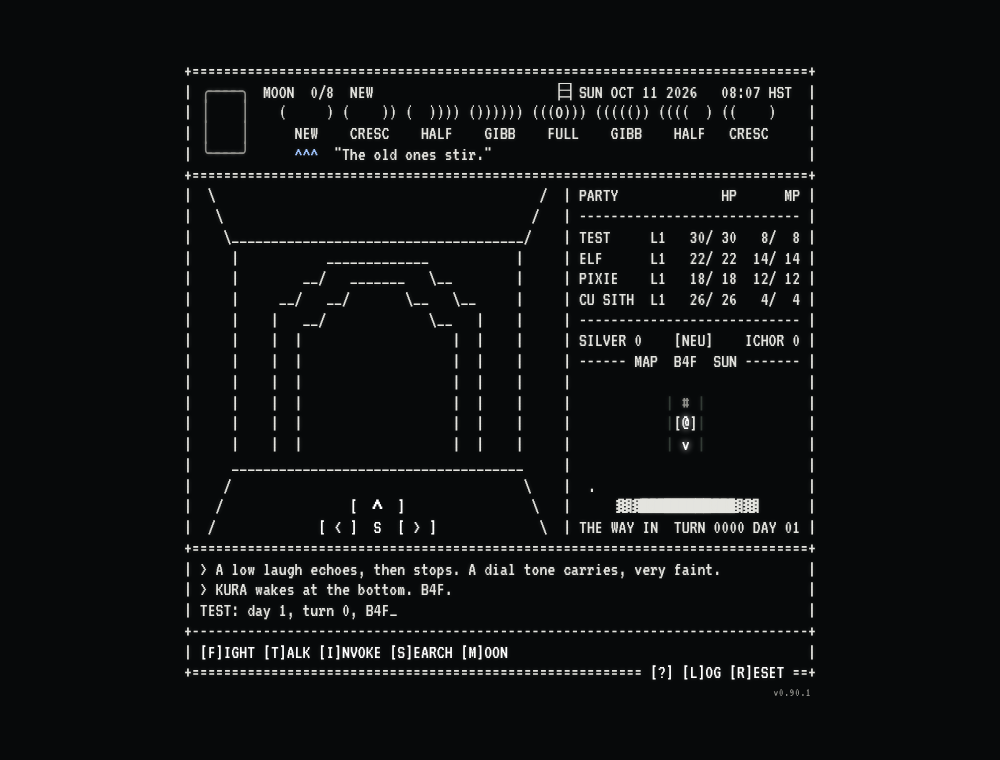
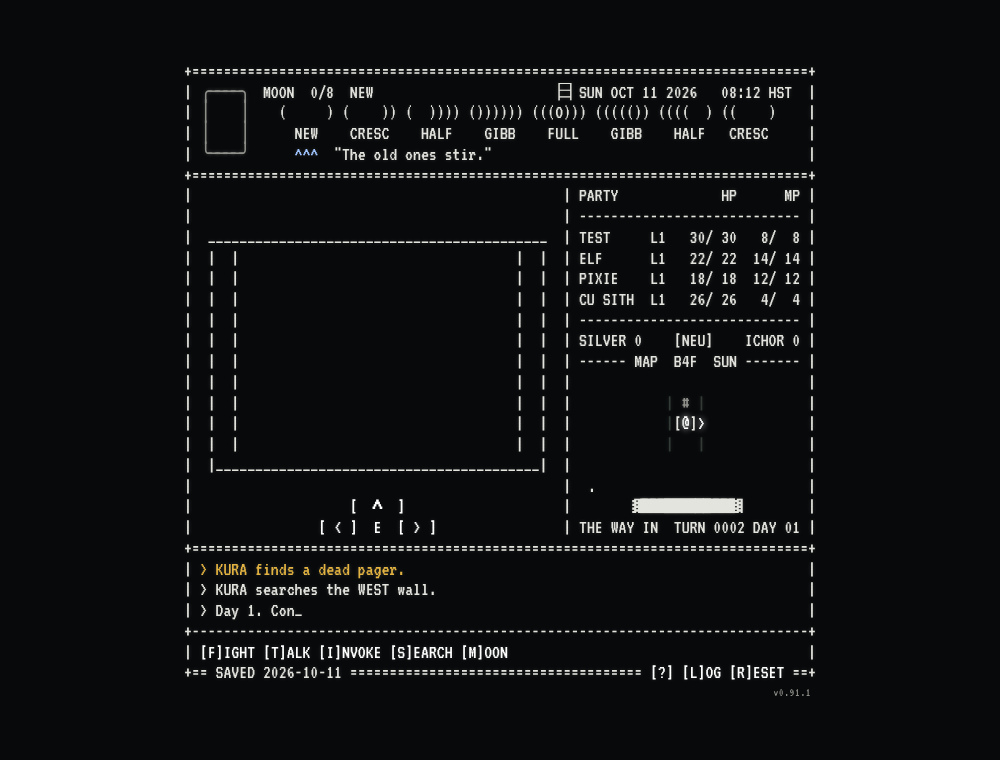
v0.91.1: a search's result on its own line (gold for a find); the typed line is slower, has a > and never says KURA
Claude-Session: https://claude.ai/code/session_013UWqGfRK4VFjqaPgWYa8SW

diff --git a/index.html b/index.html
@@ -78,6 +78,7 @@
   .logview .dim { color: var(--trail); }
   .foundbox { position: absolute; left: 50%; top: 38%; transform: translate(-50%, -50%); background: var(--bg);
     border: 1px solid var(--gold); padding: 1em 3ch; cursor: pointer; }   /* a gold border and no glow around it: no box in the game has one */
+  .logline.gold { color: var(--gold); }
   #ticker { display: inline-block; width: 76ch; overflow: hidden; white-space: pre; vertical-align: top; }
   .foundbox pre { white-space: pre; text-align: center; }
   .foundbox .gold { color: var(--gold); }
@@ -189,7 +190,7 @@
       // straight even if a glyph in the font (an apostrophe, say) isn't exactly one cell wide.
       // Line 2 glows gold right after using an item.
       if (i >= lines.length - 6 && i <= lines.length - 4) {
-        let inner = esc(line.slice(1, -1)); const gold = false;
+        let inner = esc(line.slice(1, -1)); const gold = resultGold && i === lines.length - 6;
         // A party member's question: [Y]ES and [N]O sit at the right end of the top line and answer it.
         // The bottom line is the ticker: the status report, this run's news and word of everyone else, typed out a line at a time.
         if (i === lines.length - 4) return `|<span class="logline"> <span id="ticker">${tickerHtml()}</span> </span>|`;
@@ -277,7 +278,15 @@
       if (typeof bn === "number") { if ((seenBreath !== null && bn < seenBreath) || refused) squeeze(); seenBreath = bn; }
       seenLog = save.log;
       if (Date.now() < squeezeUntil) save.squeeze = true;      // (only for this frame: never saved)
-      const html = colorize(SMT.renderScreen(save, extraToShow())); delete save.squeeze;
+      // A search's result goes on its own line: the middle line keeps "KURA searches the WEST wall." and what came
+      // of it shows on the top line, in gold when it is something found. (Only on screen: the saved log is whole.)
+      let top = extraToShow(), whole = null; resultGold = false;
+      if (!save.dead && !save.question && !searchBeat) {
+        const m = /^(> KURA (?:searches|scries) the [^.]+\.) (.+)$/.exec(save.log || "");
+        if (m) { whole = save.log; save.log = m[1]; top = "> " + m[2]; resultGold = /^(KURA finds|A locker holds|Coins in the rubble|Deep in the stone)/.test(m[2]); }
+      }
+      const html = colorize(SMT.renderScreen(save, top)); delete save.squeeze;
+      if (whole !== null) save.log = whole;
       document.getElementById("screen").innerHTML = html;
     }
     catch (err) {                                  // never freeze on a bad frame: say so, and keep the keys working
@@ -1476,7 +1485,7 @@
     if (!save || !save.dungeon) return [];
     const k = save.stats || {}, own = [], lvl = save.floor, n = (v, one, many) => `${v} ${v === 1 ? one : many}`;
     const party = (save.party || []).slice(1).filter(q => q.hp > 0).map(q => q.name);
-    own.push(`${save.playerName || "KURA"}: day ${save.day || 1}, turn ${save.steps || 0}, ${lvl}`);
+    own.push(`Day ${save.day || 1}, turn ${save.steps || 0}, ${lvl}`);
     if (party.length) own.push(`With her: ${party.join(", ")}`); else own.push("She walks alone");
     if (k.met) own.push(`${n(k.met, "demon", "demons")} met, ${k.beaten || 0} beaten, ${k.fled || 0} fled from`);
     if (k.recruited) own.push(`${n(k.recruited, "pact", "pacts")} made this run`);
@@ -1499,20 +1508,21 @@
   // holds for a few seconds with the _ blinking; it is deleted back to nothing; the next one is typed. The run's
   // own status report goes next whenever a new one is waiting. Only the line's own span is rewritten.
   // (var and a function declaration, not let/const: the first frame is drawn before this point in the script is reached.)
-  var TYPE_W = 74, typeLine = "", typeN = 0, typeMode = "gap", typeNext = 0, typeStatus = null;
-  function tickerHtml() { return esc((typeLine || "").slice(0, typeN || 0)) + (typeMode === "hold" ? '<span class="wait">_</span>' : "_"); }
+  var TYPE_W = 72, typeLine = "", typeN = 0, typeMode = "gap", typeNext = 0, typeStatus = null;
+  function tickerHtml() { return "&gt; " + esc((typeLine || "").slice(0, typeN || 0)) + (typeMode === "hold" ? '<span class="wait">_</span>' : "_"); }   // the > is always there
   function typeStep() {
     let wait = 300;
     try {
       if (atTitle || !save || !save.dungeon) { wait = 500; }
       else if (typeMode === "gap") {
-        const status = String(save.status || "").replace(/^> /, "").trim(), feed = tickerFeed();
+        // (This line never says KURA: that name belongs to the line above, where she acts.)
+        const status = String(save.status || "").replace(/^> /, "").replace(/KURA is/g, "She is").replace(/\bKURA\b/g, "she").trim(), feed = tickerFeed();
         typeLine = (status && status !== typeStatus ? (typeStatus = status) : feed.length ? feed[typeNext++ % feed.length] : status || "").slice(0, TYPE_W);
         typeN = 0; typeMode = typeLine ? "type" : "gap"; wait = 350;
       } else if (typeMode === "type") {
         typeN++;
         const ch = typeLine[typeN - 1];
-        wait = /[.,:;!?]/.test(ch) ? 260 : ch === " " ? 70 : 35 + Math.random() * 55;      // a cadence: quick letters, a breath at punctuation
+        wait = /[.,:;!?]/.test(ch) ? 520 : ch === " " ? 170 : 110 + Math.random() * 90;    // a slow hand: about six letters a second, a breath at punctuation
         if (typeN >= typeLine.length) { typeMode = "hold"; wait = 3200; }
       } else if (typeMode === "hold") { typeMode = "delete"; wait = 30; }
       else if (typeMode === "delete") { typeN = Math.max(0, typeN - 2); wait = 18; if (typeN === 0) { typeMode = "gap"; wait = 500; } }
@@ -1524,6 +1534,7 @@
   let seenBreath = null, seenLog = null;        // what the last frame showed, to notice a breath being spent
   let squeezeUntil = 0;                         // the > < that press on the breath bar for a second after a search
   const squeeze = () => { squeezeUntil = Date.now() + 1000; setTimeout(draw, 1050); };
+  var resultGold = false;                       // the top line is a find: drawn in gold
   let searchBeat = null;                        // the beat between a search and its result box
   let searchGo = false;                         // (a search being run by the block below, so it isn't caught twice)
   function act(name) {

diff --git a/screen.js b/screen.js
@@ -2,7 +2,7 @@
 // Shared by the web page (index.html) and node (for testing).
 (function (root) {
   // The build number: bumped with every release, so About and the changelog always match.
-  const VERSION = "v0.91";
+  const VERSION = "v0.91.1";
   const W = 80, VW = 47, VH = 17, OFF = [0, 3, 6];
   const L_ = o => 2 + o, R_ = o => 44 - o;
   const ljust = (s, n) => s.length >= n ? s : s + " ".repeat(n - s.length);
